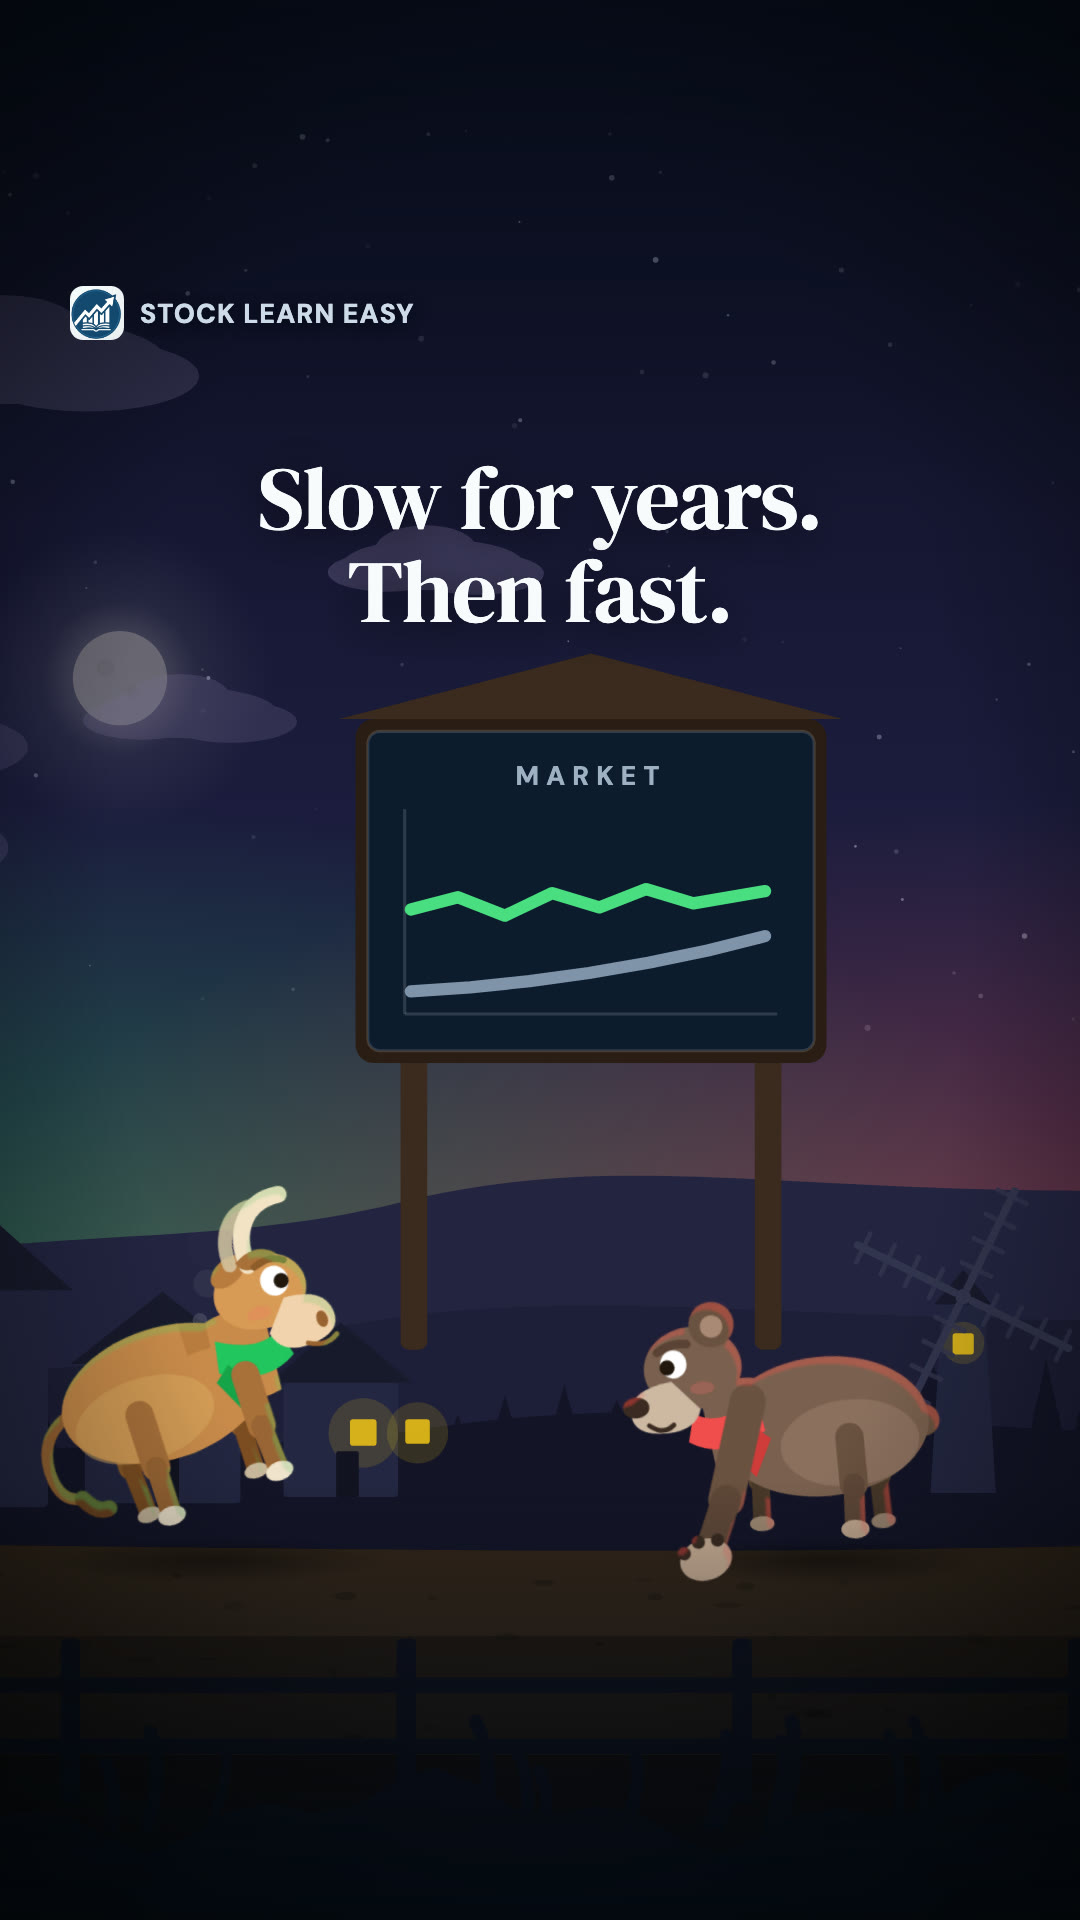
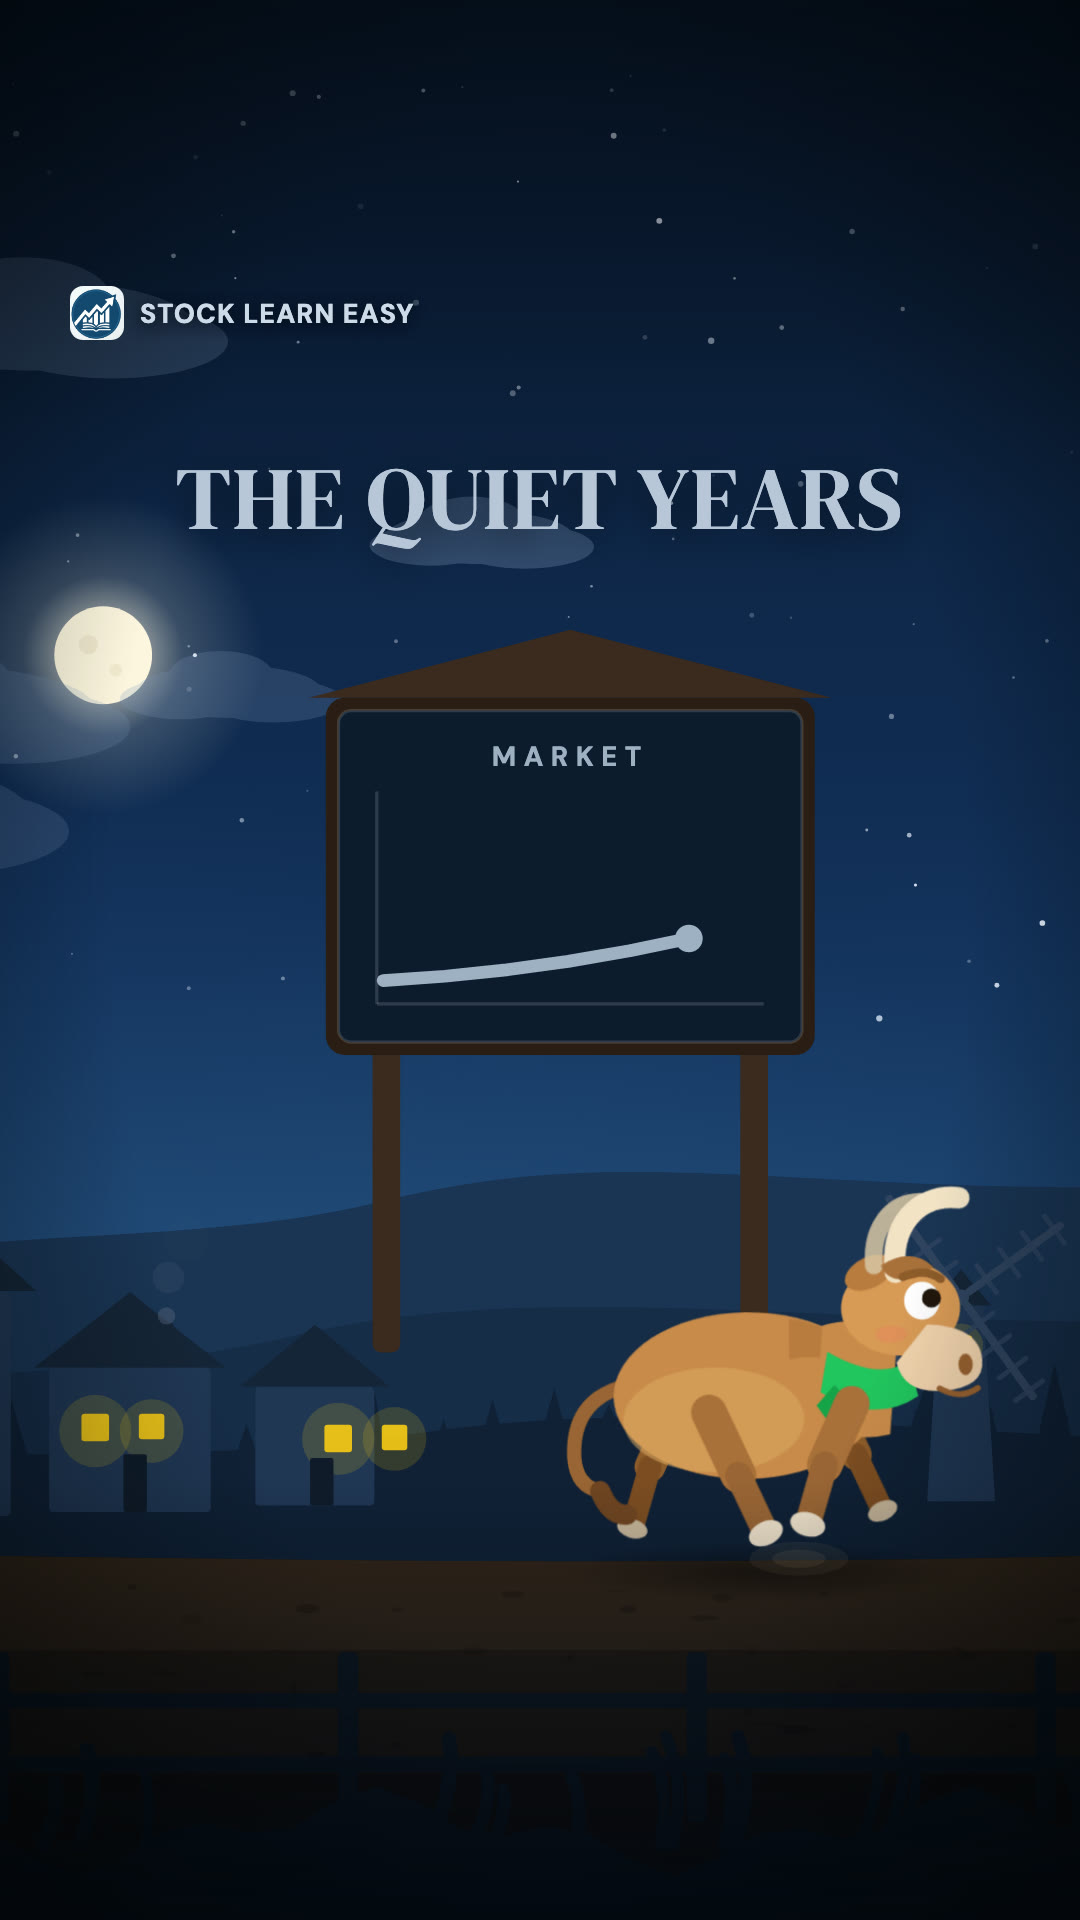
Data card for the compound episode (real numbers, big chart); fix duplicate PATHS.FAST that broke compound's curve; requeue 28.11

diff --git a/animation/village.html b/animation/village.html
@@ -58,6 +58,15 @@
   #brand img { width:54px; height:54px; border-radius:13px; display:block; }
   #brand span { font-weight:700; font-size:27px; letter-spacing:.04em; color:#cddae8;
                 text-shadow:0 3px 14px rgba(4,10,20,.9); }
+
+  /* data card: one big chart with real numbers, replacing the small board
+     in episodes that ship an EP.card. Sits inside Instagram's safe band. */
+  #card { position:absolute; left:90px; top:530px; width:900px; height:480px;
+          opacity:0; border-radius:34px;
+          background:linear-gradient(180deg, rgba(8,18,34,.86), rgba(8,18,34,.72));
+          border:2px solid rgba(255,255,255,.14);
+          box-shadow:0 24px 80px rgba(0,0,0,.5); }
+  #card svg { display:block; }
 </style>
 </head>
 <body>
@@ -320,6 +329,7 @@
   <rect x="0" y="0"    width="1080" height="1920" fill="url(#gVig)"/>
 </svg>
 
+  <div id="card"><svg id="cardSvg" width="900" height="480" viewBox="0 0 900 480"></svg></div>
   <div class="title" id="title"></div>
   <div id="caption"></div>
   <div id="brand">
@@ -1050,7 +1060,7 @@ const PATHS = {
   // share plus the cash paid out: the total does not move
   TOTAL: "M14 60  L72 60  L130 60  L188 60  L246 60  L304 60  L360 60",
   // a fast market: the price jitters between the click and the fill
-  FAST:  "M14 110 L60 98  L106 116 L152 94  L198 108 L244 90  L290 104 L360 92",
+  JITTER:"M14 110 L60 98  L106 116 L152 94  L198 108 L244 90  L290 104 L360 92",
   // a limit: a flat ceiling the order will not pay above
   CAP:   "M14 110 L72 110 L130 110 L188 110 L246 110 L304 110 L360 110",
 };
@@ -1135,6 +1145,69 @@ if (inS(S0)) {
        band(S4[0]+0.25, DUR-0.55, .28), 24);
   title.className = "title";
 }
+
+// --- data card --------------------------------------------------------------
+// A pure function of T, like everything else. The numbers are computed from
+// the episode's own inputs, so the card cannot say anything the data does not.
+(function dataCard() {
+  const node = el("card"), C = EP.card;
+  if (!C) return;
+  const on = COVER ? 0 : band(S2[0]+0.1, S3[1]-0.15, .35);
+  node.style.opacity = on;
+  el("lySign").style.opacity = on > 0.01 ? 0 : 1;
+  if (on <= 0.01) return;
+
+  const val = y => C.base * Math.pow(1 + C.rate, y);
+  const X0 = 64, X1 = 836, YB = 392, YT = 208;
+  const px = y => X0 + (X1 - X0) * y / C.years;
+  const py = v => YB - (YB - YT) * v / val(C.years);
+  const fmt = v => "$" + Math.round(v).toLocaleString("en-US");
+
+  let Y;
+  if (T < S3[0]) Y = C.split * easeInOut(clamp((T - (S2[0]+0.5)) / (S2[1]-S2[0]-1.3), 0, 1));
+  else Y = C.split + (C.years - C.split) * easeInOut(clamp((T - (S3[0]+0.4)) / 3.0, 0, 1));
+
+  const pts = (a, b) => {
+    let d = "";
+    for (let y = a; y <= b + 1e-6; y += 0.5) d += (d ? " L" : "M") + px(y).toFixed(1) + " " + py(val(y)).toFixed(1);
+    const e = px(b).toFixed(1) + " " + py(val(b)).toFixed(1);
+    return d.endsWith(e) ? d : d + " L" + e;
+  };
+  const Ya = Math.min(Y, C.split);
+  let h = "";
+  h += `<text x="450" y="58" text-anchor="middle" font-family="DM Sans" font-weight="700" font-size="34" letter-spacing="2" fill="#f8fafc">${C.head}</text>`;
+  h += `<text x="450" y="98" text-anchor="middle" font-family="DM Sans" font-weight="500" font-size="23" fill="#9fb0c4">${C.sub}</text>`;
+  // axes
+  h += `<line x1="${X0}" y1="${YB}" x2="${X1}" y2="${YB}" stroke="rgba(255,255,255,.2)" stroke-width="3"/>`;
+  for (let y = 0; y <= C.years; y += 10)
+    h += `<text x="${px(y)}" y="${YB+40}" text-anchor="middle" font-family="DM Sans" font-weight="500" font-size="26" fill="#9fb0c4">${y === 0 ? "Start" : "Year " + y}</text>`;
+  // the area under the curve
+  const area = (a, b, c) => `<path d="${pts(a,b)} L${px(b)} ${YB} L${px(a)} ${YB} Z" fill="${c}"/>`;
+  if (Ya > 0.05) h += area(0, Ya, "rgba(159,176,196,.16)");
+  if (Y > C.split + 0.05) h += area(C.split, Y, "rgba(74,222,128,.22)");
+  if (Ya > 0.05) h += `<path d="${pts(0, Ya)}" fill="none" stroke="#9fb0c4" stroke-width="11" stroke-linecap="round" stroke-linejoin="round"/>`;
+  if (Y > C.split + 0.05) h += `<path d="${pts(C.split, Y)}" fill="none" stroke="#4ade80" stroke-width="13" stroke-linecap="round" stroke-linejoin="round"/>`;
+  h += `<circle cx="${px(Y)}" cy="${py(val(Y))}" r="${Y > C.split ? 17 : 14}" fill="${Y > C.split ? "#4ade80" : "#cddae8"}"/>`;
+  const gA = val(C.split) - C.base, gB = val(C.years) - val(C.split);
+  const k = clamp((Y - (C.split + (C.years - C.split) * 0.85)) / ((C.years - C.split) * 0.15), 0, 1);
+  // milestones appear when the line reaches them
+  for (const y of C.marks) {
+    if (Y < y - 0.001) continue;
+    const big = y === C.years, o = y < C.split - 0.01 ? 1 - k : 1;
+    const anchor = y === C.years ? "end" : "middle", lx = y === C.years ? px(y) - 8 : px(y);
+    h += `<text x="${lx}" y="${py(val(y)) - (big ? 30 : 26)}" text-anchor="${anchor}" font-family="DM Sans" font-weight="700" opacity="${o}" font-size="${big ? 54 : 36}" fill="${y > C.split - 0.01 ? "#4ade80" : "#e6edf6"}">${fmt(val(y))}</text>`;
+  }
+  // the payoff: the last stretch against everything before it
+  if (k > 0) {
+    h += `<g opacity="${k}">`
+      + `<text x="${X0 + 6}" y="204" font-family="DM Sans" font-weight="500" font-size="29" fill="#9fb0c4">First ${C.split} years</text>`
+      + `<text x="${X0 + 6}" y="246" font-family="DM Sans" font-weight="700" font-size="40" fill="#cddae8">+${fmt(gA)}</text>`
+      + `<text x="${X0 + 6}" y="292" font-family="DM Sans" font-weight="500" font-size="29" fill="#6ee7a0">Last ${C.years - C.split} years</text>`
+      + `<text x="${X0 + 6}" y="342" font-family="DM Sans" font-weight="700" font-size="50" fill="#4ade80">+${fmt(gB)}</text>`
+      + `</g>`;
+  }
+  el("cardSvg").innerHTML = h;
+})();
 
 // --- burned-in captions -----------------------------------------------------
 // captions.js is generated by render.py from the measured voice clips, so the

diff --git a/animation/episodes/compound.js b/animation/episodes/compound.js
@@ -1,6 +1,11 @@
 // Compounding: the lesson is entirely in the shape of the line, so the first
 // beat deliberately looks boring and the second one pays it off.
 window.EPISODE = {
+  // numbers are computed from these inputs; 1000 * 1.07^30 = 7,612 and
+  // 1000 * 1.07^40 = 14,974, so the last 10 years add 7,362 against 6,612
+  // for the first 30
+  card: {head: "$1,000 GROWING 7% A YEAR", sub: "Illustration only. Not a prediction or advice.",
+         base: 1000, rate: 0.07, years: 40, split: 30, marks: [10, 30, 40]},
   hookTitle:  "Slow for years.<br>Then fast.",
   closeTitle: "Nothing happens.<br>Then everything.",
   hookColors: ["#4ade80", "#7f93aa"],

diff --git a/animation/episodes/orders.js b/animation/episodes/orders.js
@@ -8,8 +8,8 @@ window.EPISODE = {
   hookTitle:  "Did you pay<br>the price you saw?",
   closeTitle: "Market: now.<br>Limit: your price.",
   hookColors: ["#f04d4d", "#9fb0c4"],
-  hookCharts: ["FAST", "CAP"],
-  a: {actor: "bear", action: "pace", mood: "bear", chart: "FAST", sign: "$50 → $50.40",
+  hookCharts: ["JITTER", "CAP"],
+  a: {actor: "bear", action: "pace", mood: "bear", chart: "JITTER", sign: "$50 → $50.40",
       title: '<span style="color:var(--red-soft)">MARKET ORDER</span>',
       label: "#ff8f8f"},
   b: {actor: "bull", action: "pace", mood: "calm", chart: "CAP", sign: "$50 OR LESS",

diff --git a/animation/render.py b/animation/render.py
@@ -110,10 +110,9 @@ SCENES = {
         "narration": [
             (0.30,  "Why does money grow slowly, then all at once?"),
             (3.50,  "Compounding is the quietest idea in investing."),
-            (6.90,  "For years almost nothing happens. "
-                    "The line barely leaves the ground."),
-            (12.60, "Then the gains start earning gains, "
-                    "and the curve bends upward."),
+            (6.90,  "In thirty years, a thousand dollars becomes "
+                    "about seventy-six hundred."),
+            (12.60, "The next ten years add more than the first thirty combined."),
             (18.25, "Slow for years. Then fast."),
         ],
         "scene_ends": BEATS,

diff --git a/animation/episodes/CAPTIONS.md b/animation/episodes/CAPTIONS.md
@@ -71,6 +71,10 @@ relevant hashtags rather than the twenty that now read as spam.
 > What changes is that the gains start earning gains of their own. The curve
 > does not get a sudden push, it just bends, and the bend is the whole lesson.
 >
+> Illustration: $1,000 growing 7% a year is about $7,600 after 30 years and
+> about $15,000 after 40. The last 10 years add more than the first 30 combined.
+> A made-up example, not a prediction.
+>
 > 📲 Want the full lesson? Stock Learn Easy on the App Store, link in bio.
 >
 > ⚠ Educational content only. Not financial or investment advice.
